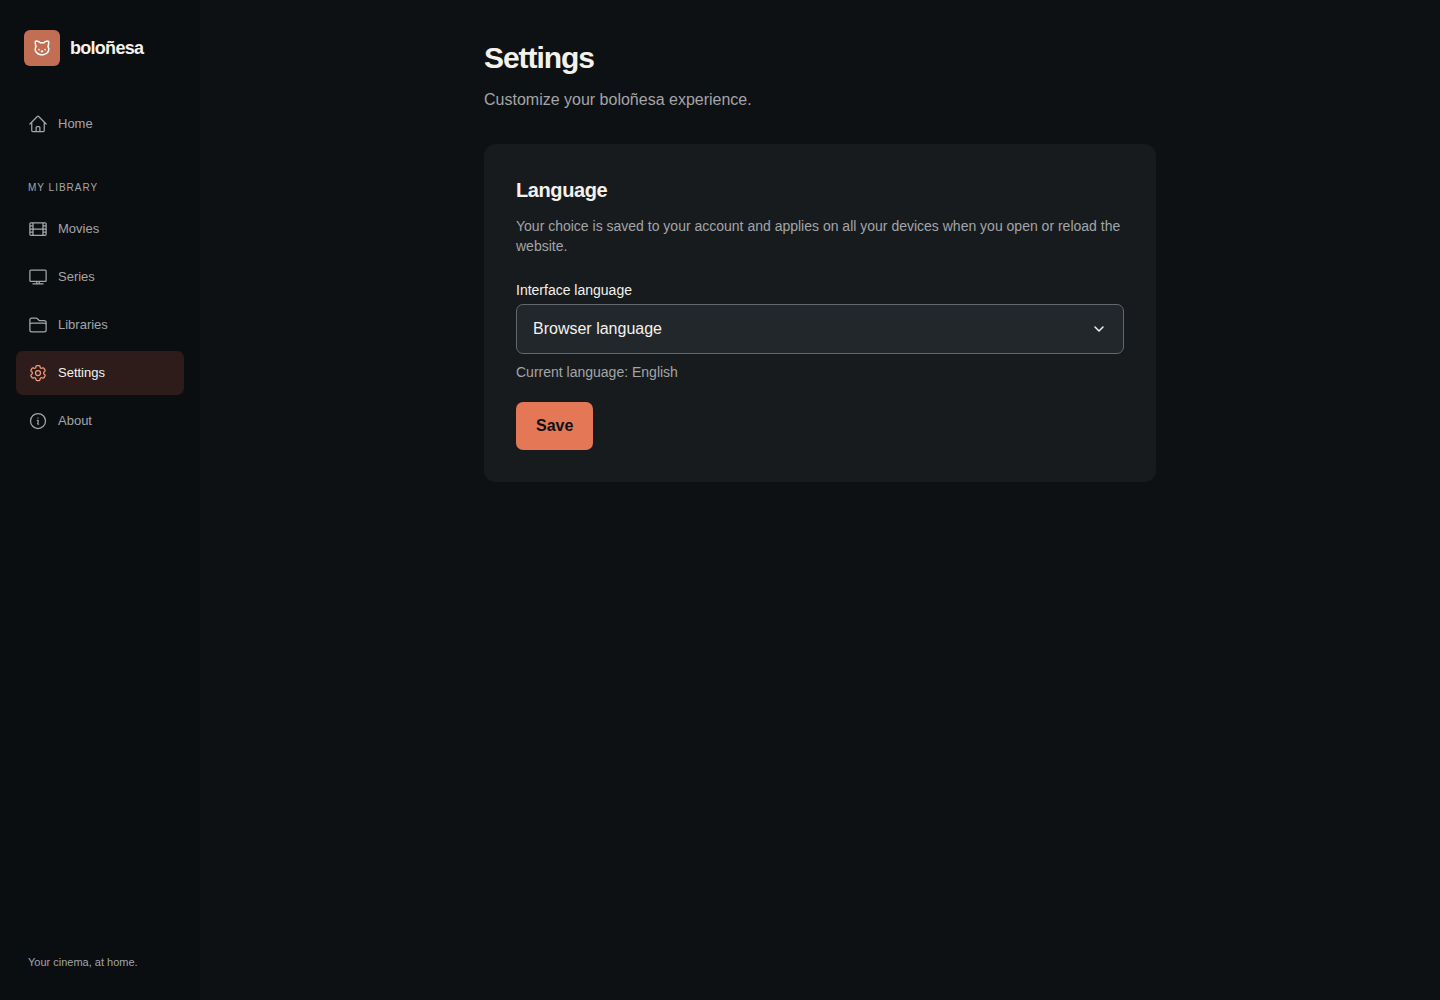
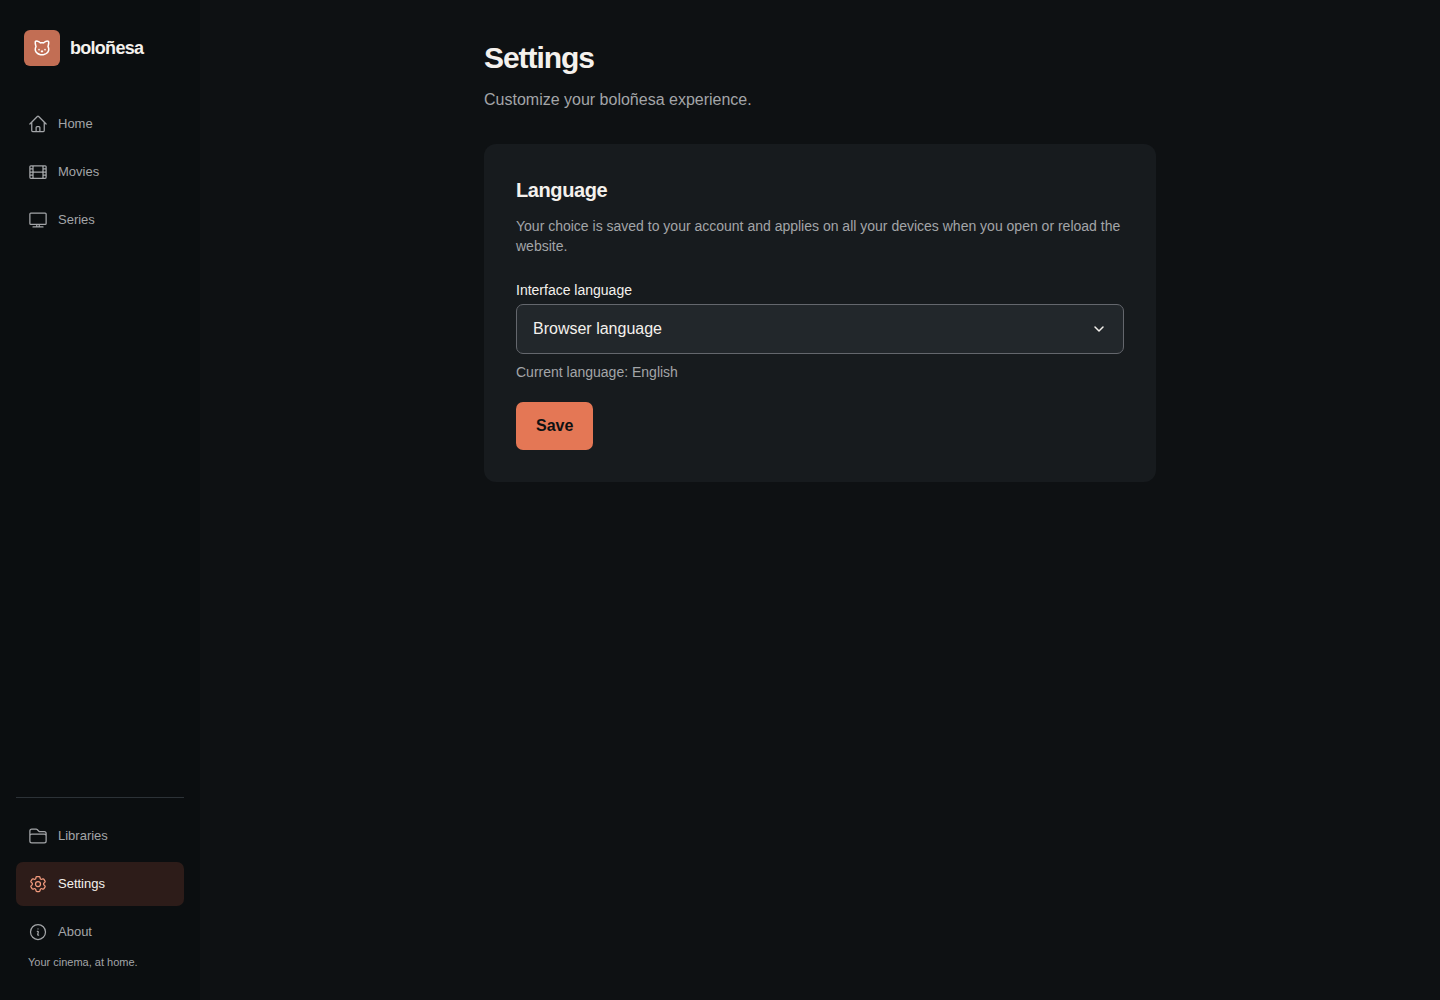
ui: group sidebar navigation by purpose

Changed region(s): [[0.0, 0.837, 0.125, 0.961], [0.0, 0.31, 0.125, 0.434], [0.0, 0.155, 0.0625, 0.279]]

diff --git a/assets/css/app.css b/assets/css/app.css
@@ -45,12 +45,14 @@ input, select, video {
 .app-shell { min-height: 100vh; }
 .app-sidebar { background: #0b0e10; padding: 24px 16px; }
 .app-brand { display: flex; align-items: center; gap: 10px; color: var(--color-ink); font-size: 18px; font-weight: 650; letter-spacing: -.04em; }
-.app-navigation { display: flex; flex-wrap: wrap; gap: 4px; margin-top: 20px; }
+.app-navigation { display: flex; flex-direction: column; gap: 12px; margin-top: 20px; }
+.app-nav-primary, .app-nav-secondary { display: flex; flex-wrap: wrap; gap: 4px; }
+.app-nav-secondary { padding-top: 8px; border-top: 1px solid var(--color-border); }
 .app-nav-link { display: flex; align-items: center; gap: 10px; min-height: 44px; padding: 10px 12px; border-radius: 7px; color: var(--color-muted); font-size: 13px; transition: color .15s, background-color .15s; }
 .app-nav-link:hover { background: var(--color-surface); color: var(--color-ink); }
 .app-nav-link.is-active { background: #e16b4829; color: var(--color-ink); }
 .app-nav-link.is-active .size-5 { color: var(--color-accent-soft); }
-.app-nav-caption, .app-sidebar-note { display: none; }
+.app-sidebar-note { display: none; }
 .app-content { min-width: 0; padding: 28px 20px 64px; }
 .app-content h1 { letter-spacing: -.035em; }
 .app-content h2 { letter-spacing: -.02em; }
@@ -87,8 +89,10 @@ a:focus-visible, button:focus-visible, input:focus-visible, select:focus-visible
   .app-shell { display: grid; grid-template-columns: 200px minmax(0, 1fr); }
   .app-sidebar { position: sticky; top: 0; height: 100vh; display: flex; flex-direction: column; padding: 30px 16px; }
   .app-brand { margin: 0 8px; }
-  .app-navigation { flex-direction: column; flex-wrap: nowrap; margin-top: 36px; }
-  .app-nav-caption { display: block; margin: 30px 12px 8px; font-size: 10px; text-transform: uppercase; letter-spacing: .1em; color: var(--color-muted); }
+  .app-navigation { flex: 1; min-height: 0; flex-direction: column; gap: 20px; margin-top: 36px; }
+  .app-nav-primary, .app-nav-secondary { flex-direction: column; flex-wrap: nowrap; gap: 4px; }
+  .app-nav-primary { min-height: 0; overflow-y: auto; margin: -6px; padding: 6px; }
+  .app-nav-secondary { flex-shrink: 0; margin-top: auto; padding: 16px 0 0; border-top: 1px solid var(--color-border); }
   .app-sidebar-note { display: block; margin: auto 12px 0; font-size: 11px; color: var(--color-muted); }
   .app-content { padding: 40px 40px 72px; }
   .poster-grid { grid-template-columns: repeat(4, minmax(0, 1fr)); }
